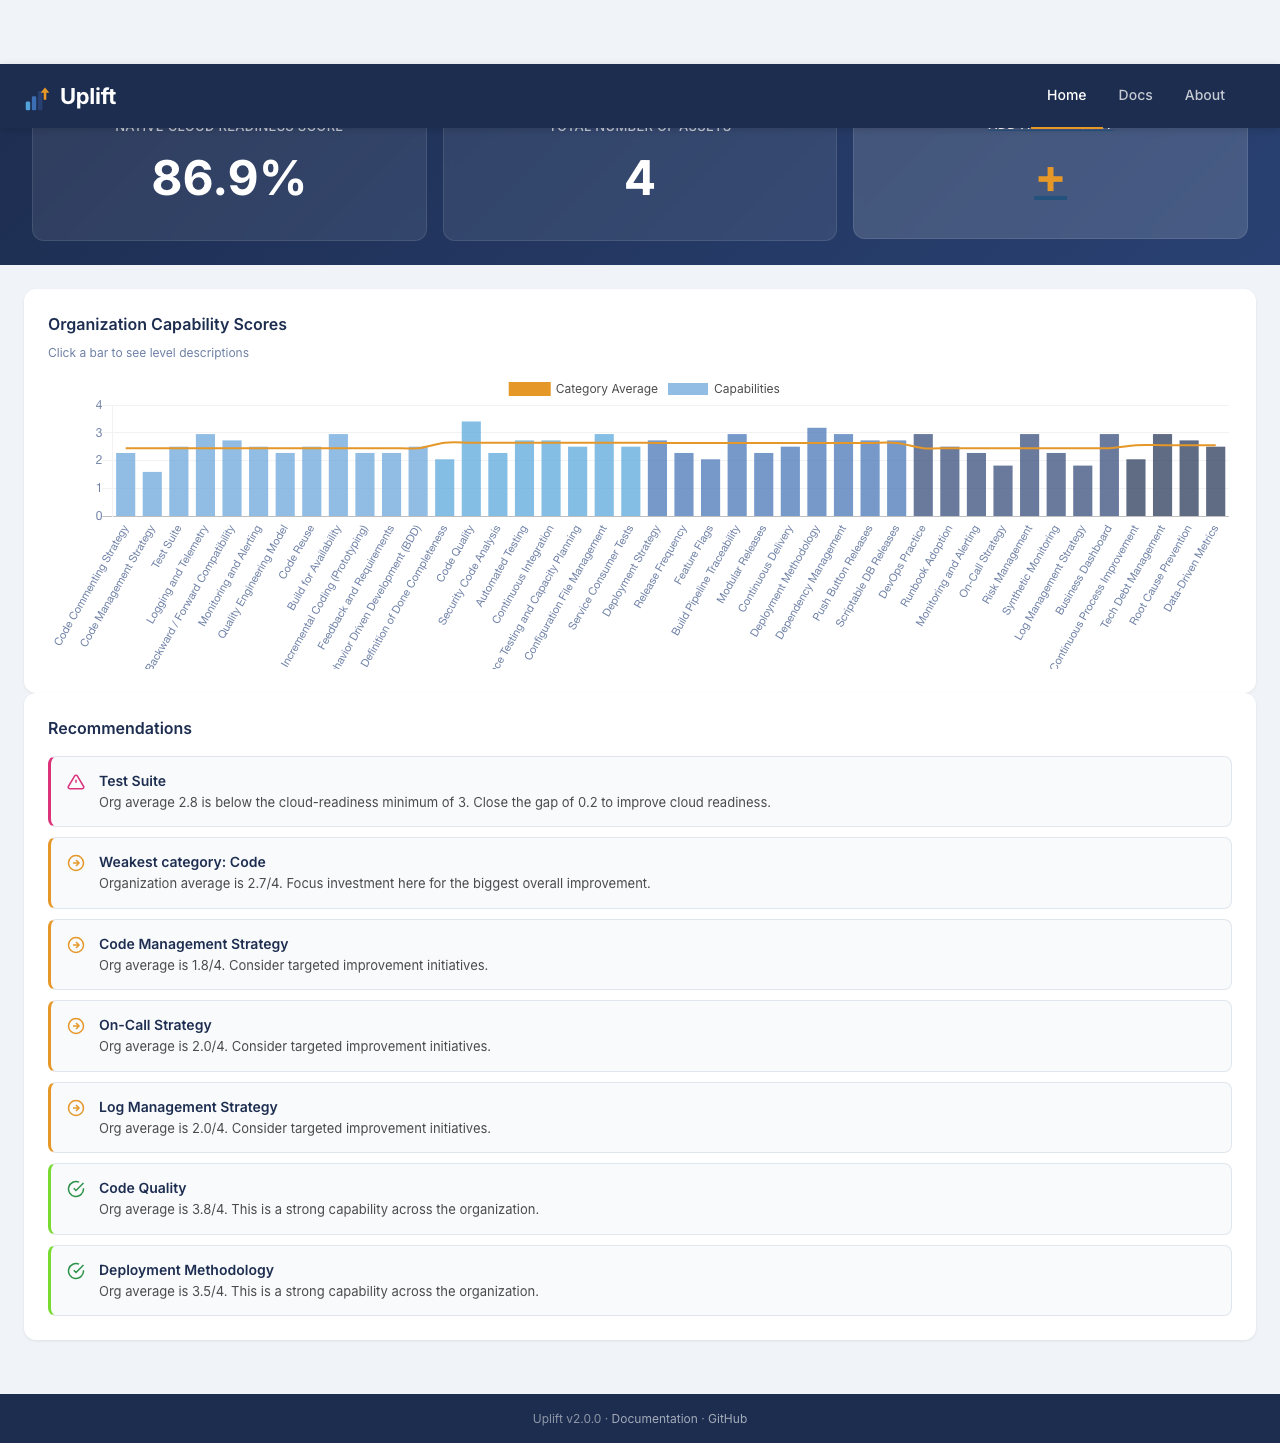
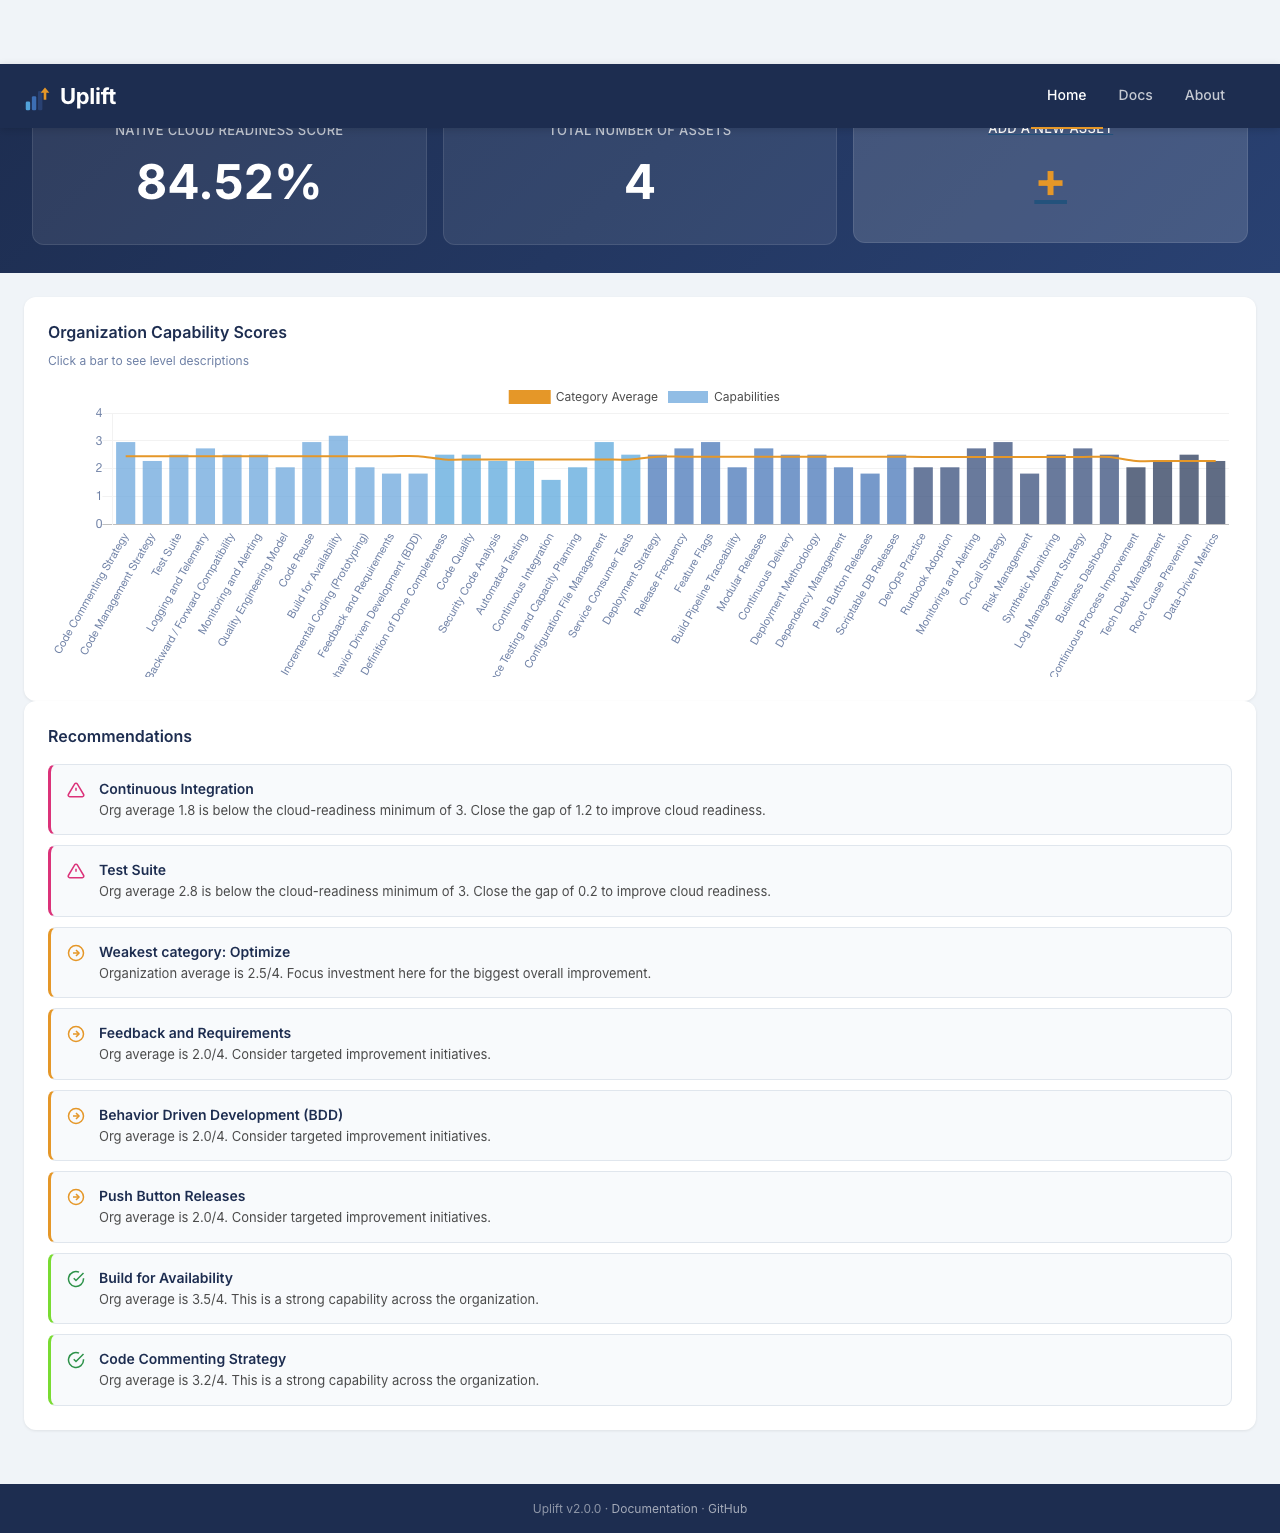
Fix stats cards top clipping caused by backdrop-filter

diff --git a/app/static/css/uplift.css b/app/static/css/uplift.css
@@ -180,10 +180,11 @@ footer {
 
 /* DASHBOARD */
 .stats {
-    padding: 24px 32px;
+    padding: 28px 32px;
     background: linear-gradient(135deg, #1d2d50 0%, #294172 100%);
     display: flex;
     gap: 16px;
+    overflow: visible;
 }
 
 .stats-col {
@@ -198,7 +199,6 @@ footer {
     border-radius: 12px;
     padding: 28px 20px;
     transition: background 0.2s, transform 0.2s;
-    backdrop-filter: blur(4px);
 }
 
 .stats-item:hover {